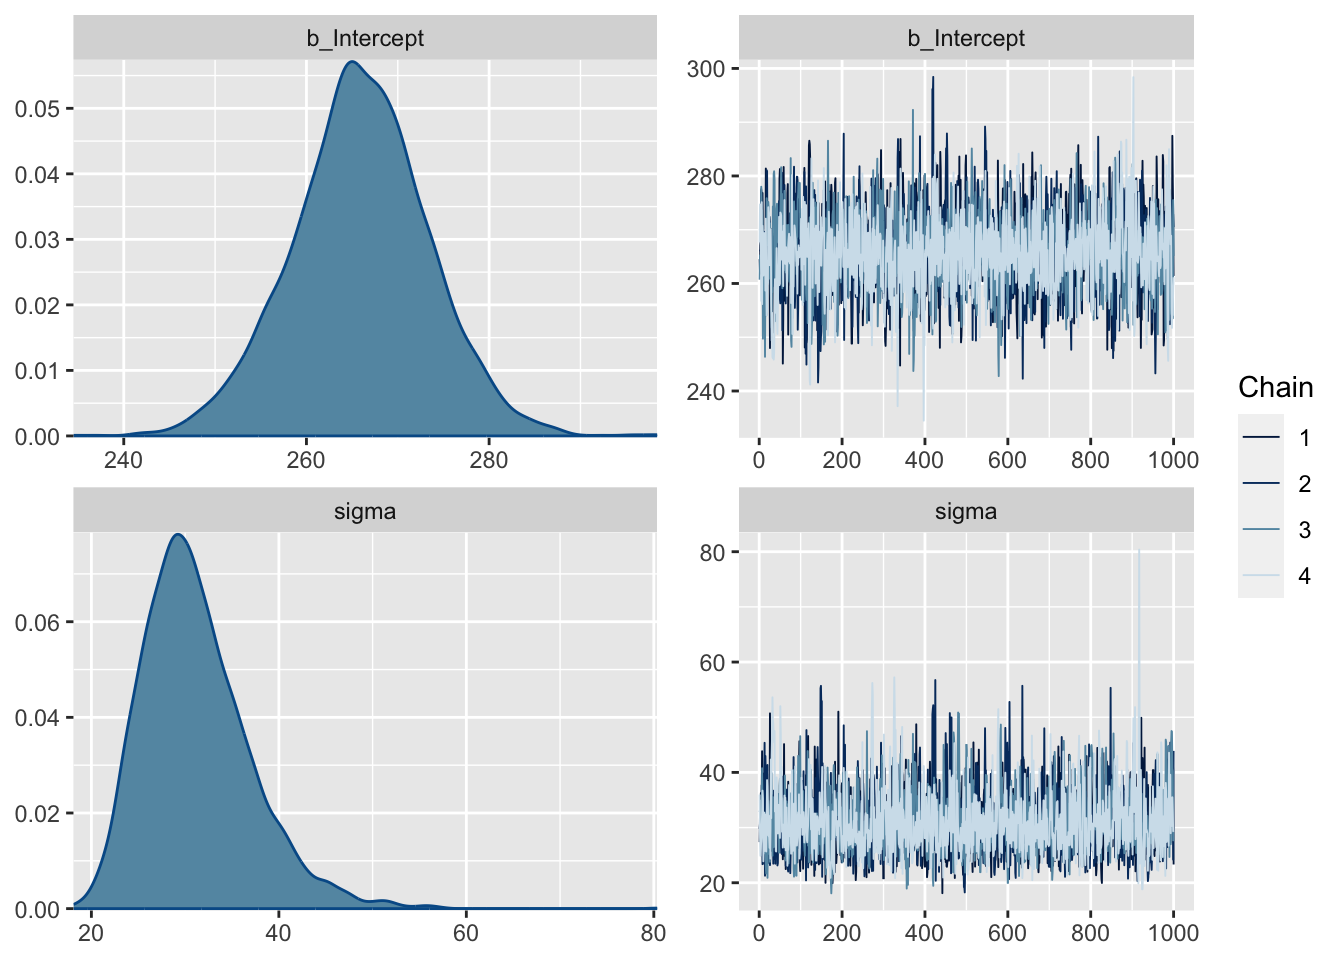
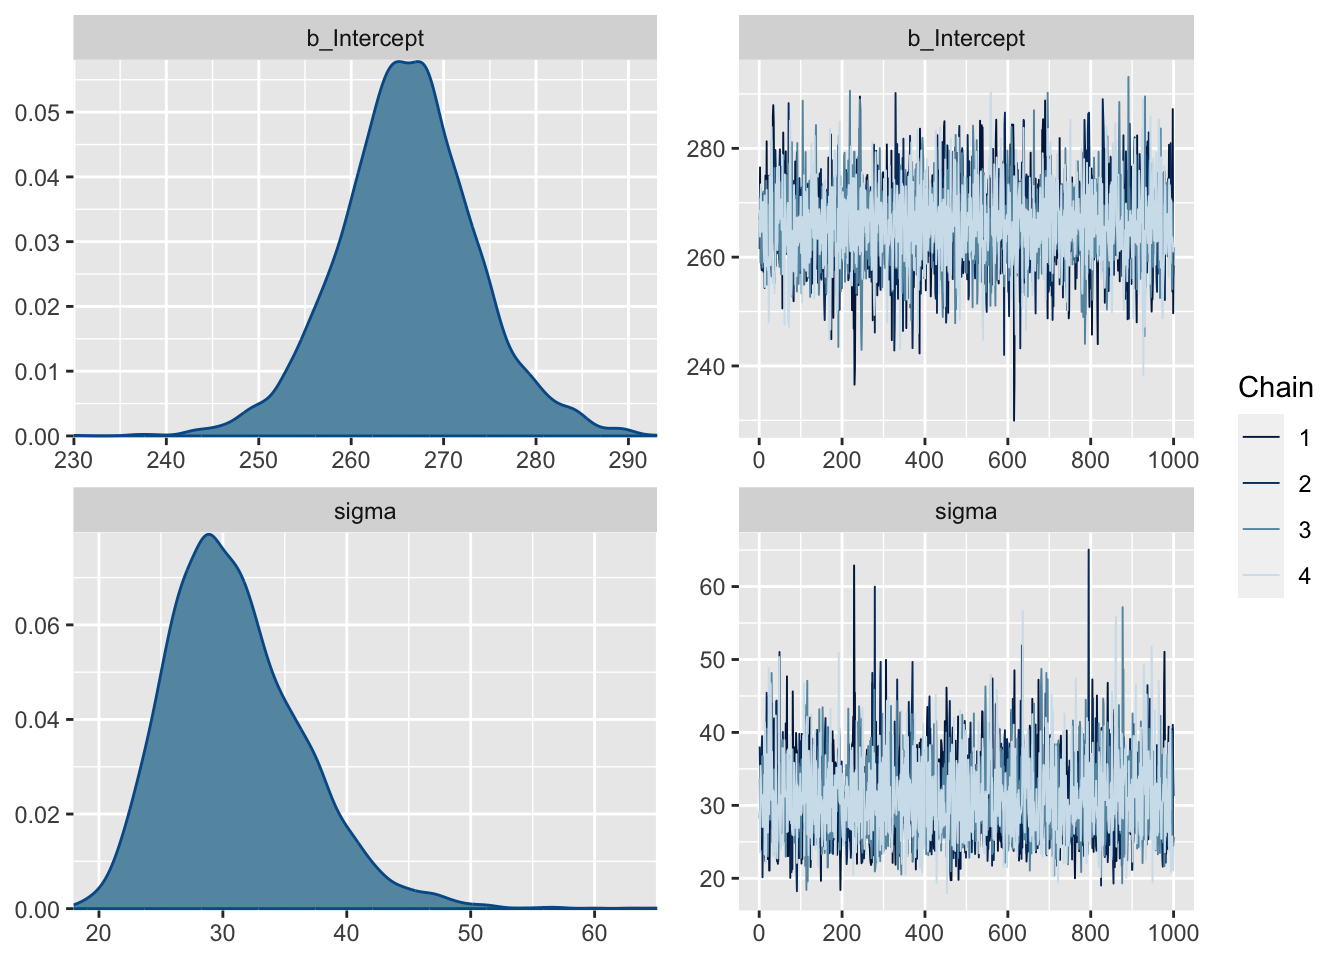
duke hex

diff --git a/day-3-posterior/2-lec-posterior-analysis/codepractice.html b/day-3-posterior/2-lec-posterior-analysis/codepractice.html
@@ -248,15 +248,15 @@ Chain 1: Iteration: 1600 / 2000 [ 80%]  (Sampling)
 Chain 1: Iteration: 1800 / 2000 [ 90%]  (Sampling)
 Chain 1: Iteration: 2000 / 2000 [100%]  (Sampling)
 Chain 1: 
-Chain 1:  Elapsed Time: 0.013216 seconds (Warm-up)
-Chain 1:                0.008652 seconds (Sampling)
-Chain 1:                0.021868 seconds (Total)
+Chain 1:  Elapsed Time: 0.012298 seconds (Warm-up)
+Chain 1:                0.008003 seconds (Sampling)
+Chain 1:                0.020301 seconds (Total)
 Chain 1: 
 
 SAMPLING FOR MODEL 'ff6f0600bb506a46491e0682891f6faf' NOW (CHAIN 2).
 Chain 2: 
-Chain 2: Gradient evaluation took 3e-06 seconds
-Chain 2: 1000 transitions using 10 leapfrog steps per transition would take 0.03 seconds.
+Chain 2: Gradient evaluation took 2e-06 seconds
+Chain 2: 1000 transitions using 10 leapfrog steps per transition would take 0.02 seconds.
 Chain 2: Adjust your expectations accordingly!
 Chain 2: 
 Chain 2: 
@@ -273,15 +273,15 @@ Chain 2: Iteration: 1600 / 2000 [ 80%]  (Sampling)
 Chain 2: Iteration: 1800 / 2000 [ 90%]  (Sampling)
 Chain 2: Iteration: 2000 / 2000 [100%]  (Sampling)
 Chain 2: 
-Chain 2:  Elapsed Time: 0.014538 seconds (Warm-up)
-Chain 2:                0.00855 seconds (Sampling)
-Chain 2:                0.023088 seconds (Total)
+Chain 2:  Elapsed Time: 0.012762 seconds (Warm-up)
+Chain 2:                0.009504 seconds (Sampling)
+Chain 2:                0.022266 seconds (Total)
 Chain 2: 
 
 SAMPLING FOR MODEL 'ff6f0600bb506a46491e0682891f6faf' NOW (CHAIN 3).
 Chain 3: 
-Chain 3: Gradient evaluation took 3e-06 seconds
-Chain 3: 1000 transitions using 10 leapfrog steps per transition would take 0.03 seconds.
+Chain 3: Gradient evaluation took 1e-06 seconds
+Chain 3: 1000 transitions using 10 leapfrog steps per transition would take 0.01 seconds.
 Chain 3: Adjust your expectations accordingly!
 Chain 3: 
 Chain 3: 
@@ -298,15 +298,15 @@ Chain 3: Iteration: 1600 / 2000 [ 80%]  (Sampling)
 Chain 3: Iteration: 1800 / 2000 [ 90%]  (Sampling)
 Chain 3: Iteration: 2000 / 2000 [100%]  (Sampling)
 Chain 3: 
-Chain 3:  Elapsed Time: 0.014918 seconds (Warm-up)
-Chain 3:                0.009628 seconds (Sampling)
-Chain 3:                0.024546 seconds (Total)
+Chain 3:  Elapsed Time: 0.012753 seconds (Warm-up)
+Chain 3:                0.007454 seconds (Sampling)
+Chain 3:                0.020207 seconds (Total)
 Chain 3: 
 
 SAMPLING FOR MODEL 'ff6f0600bb506a46491e0682891f6faf' NOW (CHAIN 4).
 Chain 4: 
-Chain 4: Gradient evaluation took 1e-06 seconds
-Chain 4: 1000 transitions using 10 leapfrog steps per transition would take 0.01 seconds.
+Chain 4: Gradient evaluation took 2e-06 seconds
+Chain 4: 1000 transitions using 10 leapfrog steps per transition would take 0.02 seconds.
 Chain 4: Adjust your expectations accordingly!
 Chain 4: 
 Chain 4: 
@@ -323,9 +323,9 @@ Chain 4: Iteration: 1600 / 2000 [ 80%]  (Sampling)
 Chain 4: Iteration: 1800 / 2000 [ 90%]  (Sampling)
 Chain 4: Iteration: 2000 / 2000 [100%]  (Sampling)
 Chain 4: 
-Chain 4:  Elapsed Time: 0.013704 seconds (Warm-up)
-Chain 4:                0.008593 seconds (Sampling)
-Chain 4:                0.022297 seconds (Total)
+Chain 4:  Elapsed Time: 0.015128 seconds (Warm-up)
+Chain 4:                0.007471 seconds (Sampling)
+Chain 4:                0.022599 seconds (Total)
 Chain 4: </code></pre>
 </div>
 <div class="sourceCode cell-code" id="cb31"><pre class="sourceCode r code-with-copy"><code class="sourceCode r"><span id="cb31-1"><a href="#cb31-1" aria-hidden="true" tabindex="-1"></a><span class="fu">plot</span>(fit)</span></code><button title="Copy to Clipboard" class="code-copy-button"><i class="bi"></i></button></pre></div>
@@ -343,11 +343,11 @@ Formula: Reaction ~ 1
 
 Population-Level Effects: 
           Estimate Est.Error l-95% CI u-95% CI Rhat Bulk_ESS Tail_ESS
-Intercept   265.94      7.43   251.07   280.49 1.00     2376     2315
+Intercept   266.07      7.39   251.11   281.30 1.00     2950     2488
 
 Family Specific Parameters: 
       Estimate Est.Error l-95% CI u-95% CI Rhat Bulk_ESS Tail_ESS
-sigma    31.17      5.73    22.33    44.76 1.00     2274     1951
+sigma    31.03      5.46    22.26    43.12 1.00     2637     2571
 
 Draws were sampled using sampling(NUTS). For each parameter, Bulk_ESS
 and Tail_ESS are effective sample size measures, and Rhat is the potential
@@ -355,7 +355,7 @@ scale reduction factor on split chains (at convergence, Rhat = 1).</code></pre>
 </div>
 <div class="sourceCode cell-code" id="cb34"><pre class="sourceCode r code-with-copy"><code class="sourceCode r"><span id="cb34-1"><a href="#cb34-1" aria-hidden="true" tabindex="-1"></a><span class="fu">mean</span>(<span class="fu">as_draws_df</span>(fit)<span class="sc">$</span>b_Intercept<span class="sc">&lt;</span><span class="dv">275</span>)</span></code><button title="Copy to Clipboard" class="code-copy-button"><i class="bi"></i></button></pre></div>
 <div class="cell-output cell-output-stdout">
-<pre><code>[1] 0.89525</code></pre>
+<pre><code>[1] 0.898</code></pre>
 </div>
 <div class="sourceCode cell-code" id="cb36"><pre class="sourceCode r code-with-copy"><code class="sourceCode r"><span id="cb36-1"><a href="#cb36-1" aria-hidden="true" tabindex="-1"></a>ci <span class="ot">&lt;-</span> <span class="fu">posterior_summary</span>(fit,</span>
 <span id="cb36-2"><a href="#cb36-2" aria-hidden="true" tabindex="-1"></a>                  <span class="at">variable =</span> <span class="fu">c</span>(<span class="st">"b_Intercept"</span>)</span>
@@ -371,7 +371,7 @@ scale reduction factor on split chains (at convergence, Rhat = 1).</code></pre>
 <span id="cb36-12"><a href="#cb36-12" aria-hidden="true" tabindex="-1"></a>  <span class="fu">ggplot</span>(<span class="fu">aes</span>(<span class="at">x=</span>diff32)) <span class="sc">+</span></span>
 <span id="cb36-13"><a href="#cb36-13" aria-hidden="true" tabindex="-1"></a>  <span class="fu">geom_histogram</span>() <span class="sc">+</span> </span>
 <span id="cb36-14"><a href="#cb36-14" aria-hidden="true" tabindex="-1"></a>  <span class="fu">labs</span>(<span class="at">x=</span><span class="st">"Difference in Reaction Time (ms) when Sleep Deprived"</span>) <span class="sc">+</span> </span>
-<span id="cb36-15"><a href="#cb36-15" aria-hidden="true" tabindex="-1"></a>  <span class="fu">geom_vline</span>(<span class="at">xintercept=</span><span class="dv">0</span>, <span class="at">col=</span><span class="st">"red"</span>)</span></code><button title="Copy to Clipboard" class="code-copy-button"><i class="bi"></i></button></pre></div>
+<span id="cb36-15"><a href="#cb36-15" aria-hidden="true" tabindex="-1"></a>  <span class="fu">geom_vline</span>(<span class="at">xintercept=</span><span class="dv">0</span>, <span class="at">col=</span><span class="st">"#00539B"</span>) <span class="co">#pick your favorite hex code! This is Duke Blue</span></span></code><button title="Copy to Clipboard" class="code-copy-button"><i class="bi"></i></button></pre></div>
 <div class="cell-output cell-output-stderr">
 <pre><code>`stat_bin()` using `bins = 30`. Pick better value with `binwidth`.</code></pre>
 </div>
